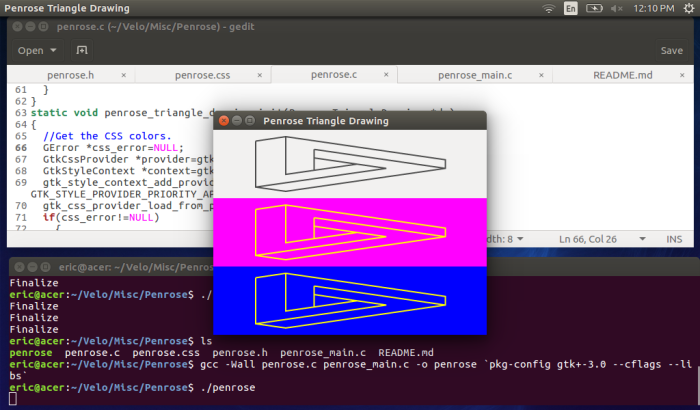
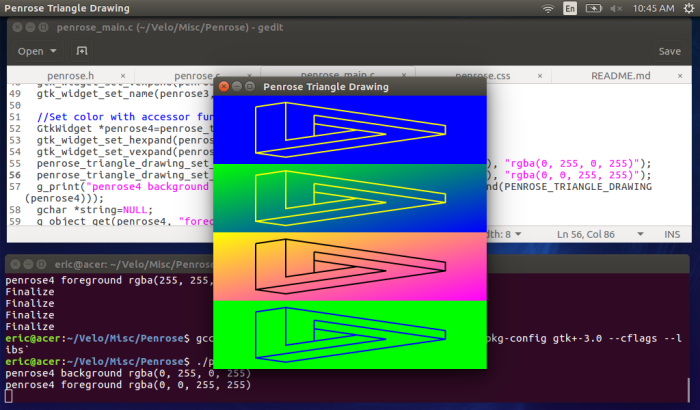
Change penrose.png

diff --git a/Misc/Penrose/penrose_main.c b/Misc/Penrose/penrose_main.c
@@ -53,11 +53,11 @@ int main(int argc, char *argv[])
   gtk_widget_set_hexpand(penrose4, TRUE);
   gtk_widget_set_vexpand(penrose4, TRUE);
   penrose_triangle_drawing_set_background(PENROSE_TRIANGLE_DRAWING(penrose4), "rgba(0, 255, 0, 255)");
-  penrose_triangle_drawing_set_foreground(PENROSE_TRIANGLE_DRAWING(penrose4), "rgba(255, 255, 0, 255)");
-  g_print("Background %s\n", penrose_triangle_drawing_get_background(PENROSE_TRIANGLE_DRAWING(penrose4)));
+  penrose_triangle_drawing_set_foreground(PENROSE_TRIANGLE_DRAWING(penrose4), "rgba(0, 0, 255, 255)");
+  g_print("penrose4 background %s\n", penrose_triangle_drawing_get_background(PENROSE_TRIANGLE_DRAWING(penrose4)));
   gchar *string=NULL;
   g_object_get(penrose4, "foreground", &string, NULL);
-  g_print("Foreground %s\n", string);
+  g_print("penrose4 foreground %s\n", string);
   g_free(string);
 
   GtkWidget *grid=gtk_grid_new();

diff --git a/Misc/Penrose/penrose.c b/Misc/Penrose/penrose.c
@@ -105,7 +105,7 @@ void penrose_triangle_drawing_set_background(PenroseTriangleDrawing *da, const g
     }
   else
     {
-      g_print("background_string error\n");
+      g_warning("background_string error\n");
     } 
 }
 void penrose_triangle_drawing_set_foreground(PenroseTriangleDrawing *da, const gchar *foreground_string)
@@ -126,7 +126,7 @@ void penrose_triangle_drawing_set_foreground(PenroseTriangleDrawing *da, const g
     }
   else
     {
-      g_print("foreground_string error\n");
+      g_warning("foreground_string error\n");
     } 
 }
 void penrose_triangle_drawing_set_draw_css(PenroseTriangleDrawing *da, gboolean draw_css)

diff --git a/Misc/Penrose/README.md b/Misc/Penrose/README.md
@@ -5,7 +5,7 @@ from
 
 https://developer.gnome.org/gtkmm-tutorial/stable/sec-custom-widgets.html.en
 
-It is translated over to C from C++ and some things are simplified to help testing with CSS.
+It is translated over to C from C++ and some things are simplified to help testing with CSS. There are also a couple of accessor functions that duplicate the CSS functionality. That way you can change the background and foreground using CSS or the accessor functions.
 
 
 Triangles
